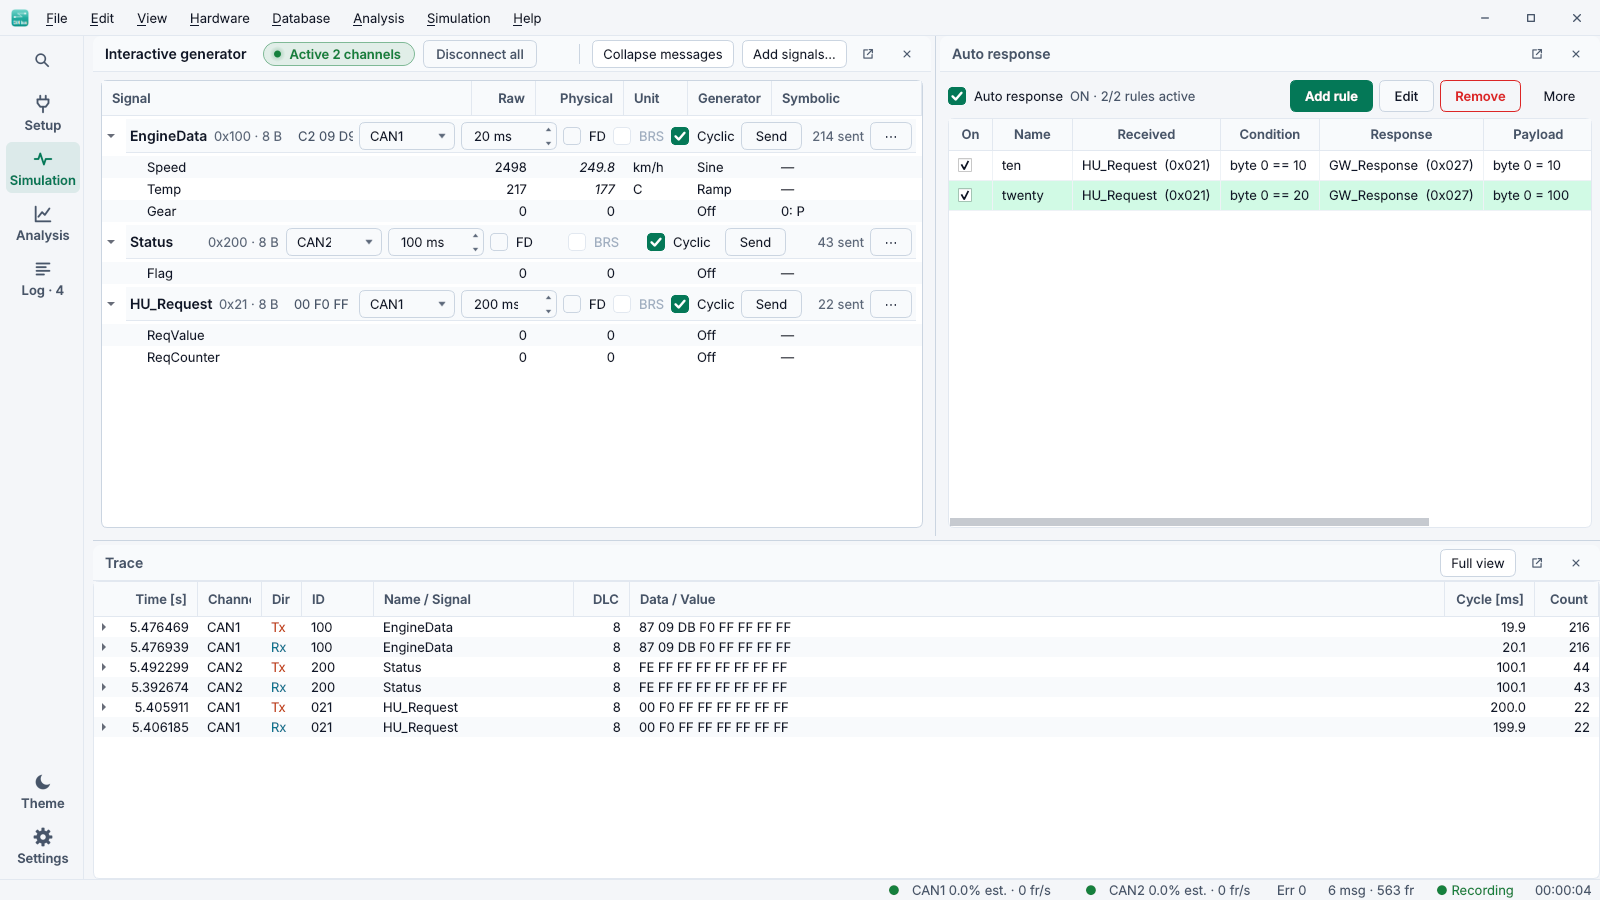
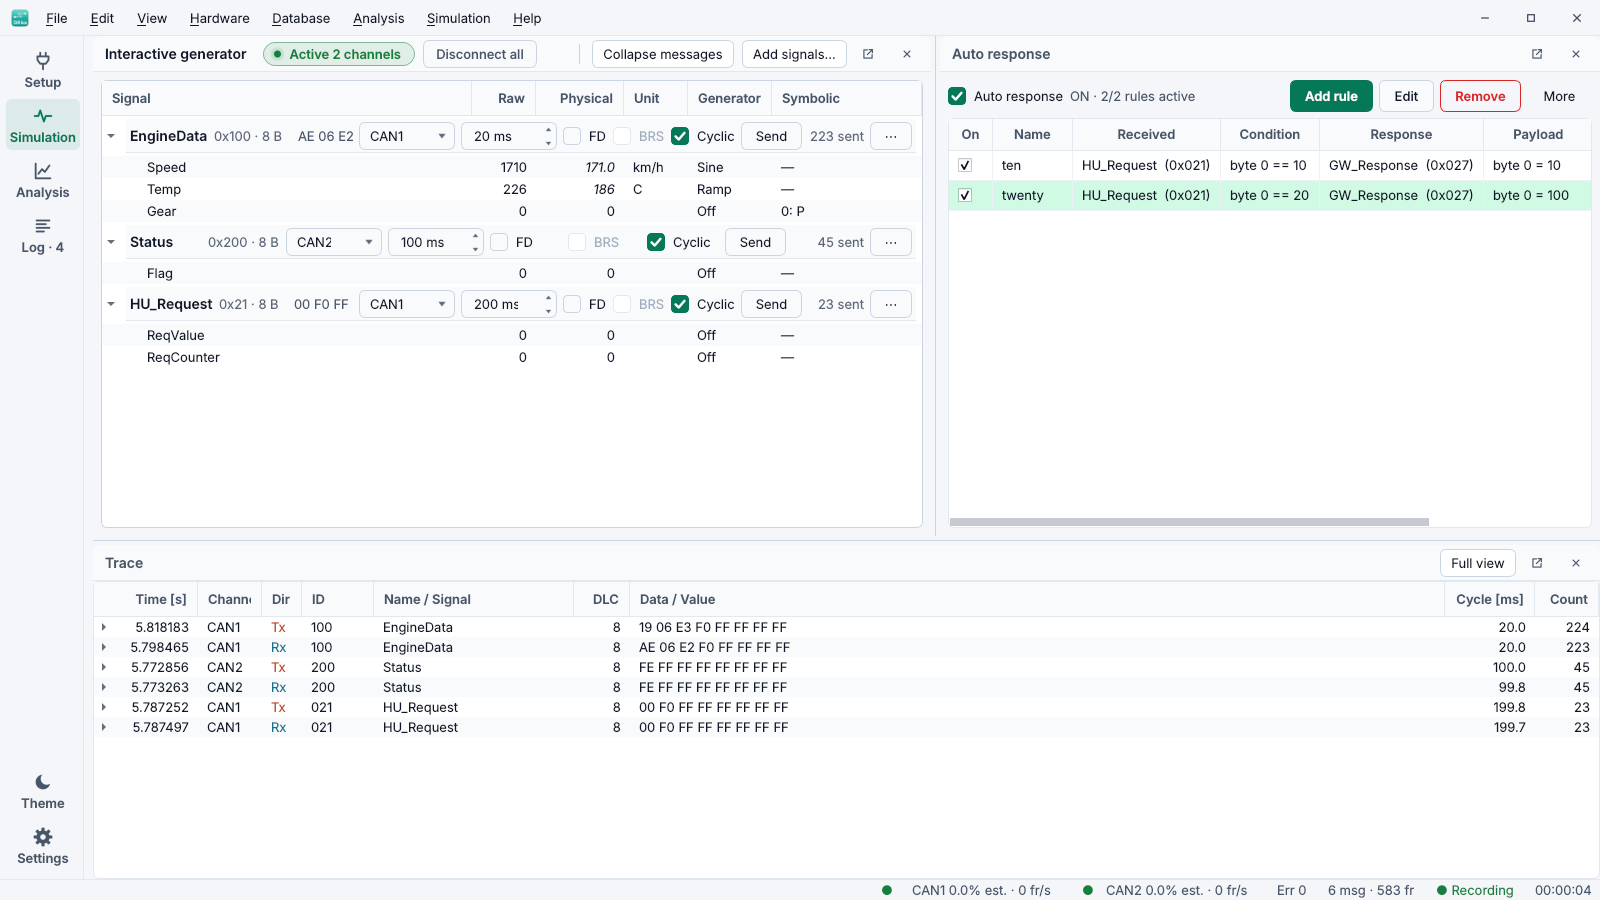
Remove the PCAN driver notice from the Channels window and the search button from the rail
- PEAK driver: still a Log line when a PEAK adapter is plugged in without it, the Connect error, and
  Hardware / Help > Download PEAK driver.
- Command palette: Ctrl+K only (the hidden button stays owned by the window).

Claude-Session: https://claude.ai/code/session_01QpNh95ZjJG525gSXM3h8sg

diff --git a/src/autosim/ui/panels/connection_panel.py b/src/autosim/ui/panels/connection_panel.py
@@ -18,7 +18,6 @@ from PySide6.QtWidgets import (
     QMenu,
     QMessageBox,
     QPushButton,
-    QSizePolicy,
     QTableWidget,
     QTableWidgetItem,
     QVBoxLayout,
@@ -85,13 +84,6 @@ class CanConnectionPanel(QWidget):
         self.all_btn.setToolTip("Open every detected adapter that is not connected yet (CAN1, CAN2, ...)\n"
                                 "with the bit rates and mode of the form")
         self.badge = StatusBadge("Offline", "offline")
-        self.pcan_note = QLabel()                         # shown when the PEAK driver (PCAN) is missing
-        self.pcan_note.setProperty("role", "caption")
-        self.pcan_note.setTextFormat(Qt.RichText)
-        self.pcan_note.setOpenExternalLinks(True)
-        self.pcan_note.setSizePolicy(QSizePolicy.Ignored, QSizePolicy.Preferred)   # never widens the window
-        self.pcan_note.setWordWrap(True)
-        self.pcan_note.hide()
         self._pcan_warned = False
         # strict sizing: 32px inputs, 80px Scan, 130px Connect/Disconnect (never stretched)
         for w in (self.port, self.channel, self.nominal, self.data):
@@ -159,7 +151,6 @@ class CanConnectionPanel(QWidget):
         v.addLayout(hdr)
         v.addLayout(grid)
         v.addLayout(action_layout)
-        v.addWidget(self.pcan_note)                      # own line: the Download link is never cut off
         v.addWidget(self.table, 1)
 
         self.scan_btn.clicked.connect(self.scan)
@@ -336,15 +327,11 @@ class CanConnectionPanel(QWidget):
         self._device_changed()
 
     def _update_pcan_note(self) -> None:
-        """PEAK driver missing: a short notice with a download link in this window, and one Log line when a PEAK
-        adapter has been plugged into this PC (so users without PCAN hardware are not nagged)."""
-        ok, detail = getattr(self.ctx.nodes, "pcan_driver", (True, ""))
-        self.pcan_note.setVisible(not ok)
+        """PEAK driver missing: one Log line, only when a PEAK adapter has been plugged into this PC (users without
+        PCAN hardware are not bothered). The driver link is also in the Hardware / Help menus."""
+        ok, _detail = getattr(self.ctx.nodes, "pcan_driver", (True, ""))
         if ok:
             return
-        self.pcan_note.setText(f'PCAN: PEAK driver not installed \u00b7 <a href="{PEAK_DRIVER_URL}">Download</a>')
-        self.pcan_note.setToolTip("PCAN adapters need PEAK's device driver with the PCAN-Basic API (free).\n"
-                                  "Install it, then press Scan.\n\n" + (detail or ""))
         if not self._pcan_warned and peak_usb_present():
             self._pcan_warned = True
             self.ctx.events.publish("log", "PCAN adapter found but the PEAK driver is not installed - download it "

diff --git a/tests/test_pcan_gui.py b/tests/test_pcan_gui.py
@@ -72,7 +72,6 @@ def test_scan_lists_pcan_and_the_form_follows_the_device(peak, make_win):
     c.nominal.setCurrentIndex(c.nominal.findData(1_000_000))
     assert [c.data.itemData(i) for i in range(c.data.count())] == [1_000_000, 2_000_000, 4_000_000, 5_000_000,
                                                                   8_000_000]
-    assert not c.pcan_note.isVisible()                                 # driver installed: no notice
     # PCAN-USB without FD: classic CAN only
     c.port.setCurrentText("PCAN_USBBUS3")
     assert c.port_hint.text() == "PCAN-USB · PEAK"
@@ -87,15 +86,14 @@ def test_scan_lists_pcan_and_the_form_follows_the_device(peak, make_win):
     assert c.free_ports() == ["PCAN_USBBUS1", "PCAN_USBBUS2", "PCAN_USBBUS3"]
 
 
-def test_missing_driver_shows_a_download_link_without_widening_the_window(monkeypatch, make_win):
+def test_missing_driver_is_only_reported_when_it_matters(monkeypatch, make_win):
+    """No notice in the Channels window; a Log line when a PEAK adapter is plugged in without its driver, and a
+    clear Connect error with the download link."""
     FakePeak(driver=False).install(monkeypatch)
     win = make_win()
     c = win.can_conn
     win.show_desktop("Setup")
-    assert c.pcan_note.isVisible()
-    assert "PEAK driver not installed" in c.pcan_note.text() and f'href="{DRIVER_URL}"' in c.pcan_note.text()
-    assert c.pcan_note.openExternalLinks() and "PCAN-Basic" in c.pcan_note.toolTip()
-    assert win.minimumSizeHint().width() <= 1366
+    assert not hasattr(c, "pcan_note")
     assert next(c.port.itemText(i) for i in range(c.port.count())) == "SIM1"   # nothing PCAN to offer
     # the Log gets a line only when a PEAK adapter has been plugged into this PC, and only once
     logs = []
@@ -122,11 +120,11 @@ def test_driver_installed_after_start_is_picked_up_by_scan(monkeypatch, make_win
     win = make_win()
     c = win.can_conn
     win.show_desktop("Setup")
-    assert c.pcan_note.isVisible()
+    assert win.ctx.nodes.pcan_driver[0] is False
     p.driver = True                                                    # the user installed the driver
     p.add("PCAN_USBBUS1", "PCAN-USB FD")
     c.scan()
-    assert not c.pcan_note.isVisible() and c.port.currentText() == "PCAN_USBBUS1"
+    assert win.ctx.nodes.pcan_driver[0] is True and c.port.currentText() == "PCAN_USBBUS1"
 
 
 def test_connect_all_drives_two_pcan_adapters_end_to_end(peak, make_win, qtbot):

diff --git a/tests/test_gui.py b/tests/test_gui.py
@@ -411,12 +411,13 @@ def test_menu_bar_is_the_window_menu_bar_on_top(win, qtbot):
     qtbot.wait(100)
     bar = win.menu
     assert bar.height() <= 32 and win.can_tab.mapTo(win, QPoint(0, 0)).y() >= tb.height()
-    # search on top of the rail, theme and settings at its bottom
+    # no search button on the rail (Ctrl+K); theme and settings at its bottom
     rail, gear = win.rail, win.btn_settings
-    assert rail.isAncestorOf(win.app_bar.palette_btn) and rail.isAncestorOf(gear) and isinstance(gear, QToolButton)
+    assert not rail.isAncestorOf(win.app_bar.palette_btn) and not win.app_bar.palette_btn.isVisible()
+    assert rail.isAncestorOf(gear) and isinstance(gear, QToolButton)
     assert not gear.icon().isNull() and gear.toolTip().startswith("Settings")
     top = lambda w: w.mapTo(rail, QPoint(0, 0)).y()  # noqa: E731
-    assert top(win.app_bar.palette_btn) < top(rail.buttons[0]) < top(rail.buttons[-1]) < top(win.app_bar.theme_btn)
+    assert top(rail.buttons[0]) < top(rail.buttons[-1]) < top(win.app_bar.theme_btn)
     lb = win.status.log_btn                                                      # Log right under Analysis
     assert top(rail.buttons[-1]) < top(lb) < top(rail.buttons[-1]) + rail.buttons[-1].height() + 12
     assert top(gear) > rail.height() - 60

diff --git a/src/autosim/ui/main_window.py b/src/autosim/ui/main_window.py
@@ -2,7 +2,7 @@
 
     menu bar    File Edit View Hardware Database Analysis Simulation Help   (a normal QMenuBar under the OS
                 title bar, nothing else in it; menus: shell/menu_bar.py)
-    rail        search (Ctrl+K) · Setup / Simulation / Analysis desktops (Ctrl+1…3) · Log · theme, settings
+    rail        Setup / Simulation / Analysis desktops (Ctrl+1…3) · Log · theme, settings (palette: Ctrl+K)
                   Setup       Channels | Database (explorer: tree + properties, which databases are used where)
                   Simulation  Signals | Auto response over a Trace (Full view -> Analysis)
                   Analysis    Bus trace over Signal plot
@@ -346,7 +346,8 @@ class MainWindow(QMainWindow):
     def _build_app_bar(self) -> None:
         self.app_bar = bar = AppBar(self.btn_settings)
         bar.palette_btn.clicked.connect(self.show_palette)
-        self.rail.add_top(bar.palette_btn)               # search on top of the rail
+        bar.palette_btn.setParent(self)                  # owned by the window (dies with it, as on the rail) ...
+        bar.palette_btn.hide()                           # ... but not shown: the command palette is Ctrl+K only
 
         bar.theme_btn.clicked.connect(self.toggle_theme)
 

diff --git a/tests/test_shell.py b/tests/test_shell.py
@@ -100,7 +100,7 @@ def test_modifier_shortcuts_and_tooltips(win, qtbot):
                      ("trace.pause", "Space")):
         assert r.commands[cid].shortcut == seq
     assert "(Space)" in win.trace.pause.toolTip() and "(Ctrl+L)" in win.trace.clear_act.toolTip()
-    assert "(Ctrl+K)" in win.app_bar.palette_btn.toolTip()
+    assert r.commands["palette"].shortcut == "Ctrl+K"                      # palette: keyboard only
     win.trace_card.hide()
     win.show_desktop("Setup")
     r.run("trace.search")                                        # shows the trace (its desktop) and focuses search

diff --git a/docs/SETUP.md b/docs/SETUP.md
@@ -111,8 +111,8 @@ both ends, use the **same bit rates** on both channels, then **Connect all**.
 
 1. Install **PEAK's device driver** (free, includes the PCAN-Basic API):
    <https://www.peak-system.com/support/downloads/drivers/driver-packages/>. AutoSim does not install it. When it
-   is missing, the Channels window shows *PCAN: PEAK driver not installed · Download*, and *Hardware* / *Help →
-   Download PEAK driver (PCAN)…* opens that page. On Linux, install PEAK's `pcan` driver with PCAN-Basic for Linux.
+   is missing, *Hardware* / *Help → Download PEAK driver (PCAN)…* opens that page; the Log says so when a PEAK
+   adapter is plugged in, and Connect explains it. On Linux, install PEAK's `pcan` driver with PCAN-Basic for Linux.
 2. Plug the adapter in, *Setup → Channels* → **Scan**: each channel appears as `PCAN_USBBUS1`, `PCAN_USBBUS2`, …
    with its device name (e.g. *PCAN-USB FD · PEAK*). A PCAN adapter is preselected like a CANable.
 3. Choose the rates and **Connect**:
@@ -157,7 +157,7 @@ Background and boot-time integration: [ANDROID_BRIDGE](ANDROID_BRIDGE.md),
 | ESP32 sends, the other node reports STUFF / FORM / CRC errors | Bit rate mismatch: same rates on both channels; firmware below 1.4 with a 20 MHz crystal (update) |
 | `no ACK` / `nominal BIT0` | Transceiver not powered (5 V) or in standby, CANH / CANL swapped, no termination, or the other node not open |
 | Only the first frame goes out, nothing is received | INT wire not connected (firmware 1.5 warns `INT never fired` and keeps working by polling) |
-| *PCAN: PEAK driver not installed* | Install PEAK's driver (link in the Channels window or *Help* menu), then **Scan** |
+| *PEAK driver not installed* (Log / Connect) | Install PEAK's driver (*Help → Download PEAK driver*), then **Scan** |
 | PCAN `… in use by another application` | Close PCAN-View / CANoe / another AutoSim using that channel |
 | PCAN `error passive` / `bus-off` | Nobody acknowledges (lone adapter, other node closed), bit rate mismatch or missing termination |
 | CANable reports frames not acknowledged | A lone adapter: nobody acknowledges; connect a second node and terminate the bus |

diff --git a/docs/USER_GUIDE.md b/docs/USER_GUIDE.md
@@ -18,7 +18,7 @@ How to use AutoSim Studio day to day. To install, see [Setup](SETUP.md).
 | Area | What it is |
 |---|---|
 | **Title bar** | App icon, the menus **File · Edit · View · Hardware · Database · Analysis · Simulation · Help**, and the window buttons. Drag the empty part to move the window (snap works); double-click to maximise. |
-| **Rail** (left) | **⌕** command palette; the desktops **Setup**, **Simulation**, **Analysis**; **Log** (shows the number of new lines, e.g. `Log · 2`); **Theme**; **Settings** |
+| **Rail** (left) | The desktops **Setup**, **Simulation**, **Analysis**; **Log** (shows the number of new lines, e.g. `Log · 2`); **Theme**; **Settings** |
 | **Desktop** | The windows of the selected desktop |
 | **Log** | Opens on demand (rail → Log, `Ctrl+J`), right of the rail, with **Clear** |
 | **Status bar** | One entry per channel: **● state dot** (green running, amber connecting, red error), estimated bus load and frames/s; error count; trace size; Recording / Paused; elapsed time |
@@ -33,7 +33,7 @@ Every feature menu starts with the entry that opens its window, for example *Har
 ### 2.1 Open a channel
 
 1. **Scan** lists the adapters: ESP32 nodes, CANable adapters (recognised by USB ID and preselected), PEAK PCAN
-   channels (`PCAN_USBBUS1`, …, when PEAK's driver is installed; otherwise a *Download* link is shown), the
+   channels (`PCAN_USBBUS1`, …, when PEAK's driver is installed; *Help → Download PEAK driver (PCAN)…* links to it), the
    simulated nodes `SIM1`, `SIM2`, and the Android bridge `bridge://127.0.0.1:29536`.
 2. Choose the **port**, a **channel name** (CAN1, CAN2, …), the **nominal rate**, the **data rate** and the mode:
 

diff --git a/docs/design/HLD.md b/docs/design/HLD.md
@@ -241,7 +241,7 @@ flowchart LR
         tb["Title bar: icon · File … Help · window buttons"]
         subgraph body[" "]
             direction LR
-            rail["Rail<br/>⌕ search<br/>Setup<br/>Simulation<br/>Analysis<br/>Log<br/>…<br/>Theme<br/>Settings"]
+            rail["Rail<br/>Setup<br/>Simulation<br/>Analysis<br/>Log<br/>…<br/>Theme<br/>Settings"]
             subgraph desk["Current desktop (stack of dock workspaces)"]
                 direction TB
                 d1["Setup: Channels | Database (4 : 6)"]
